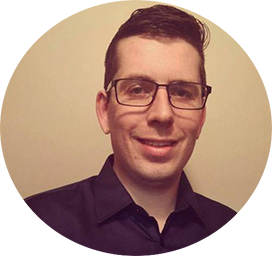
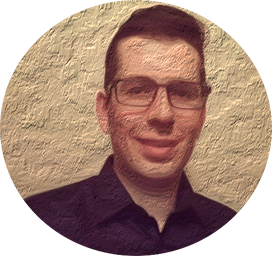
header update

diff --git a/index.html b/index.html
@@ -71,12 +71,12 @@
     <header>
         <div class="container" id="maincontent" tabindex="-1">
             <div class="row">
-                    <img class="img-responsive" src="img/ToneZone.png" alt="">
+                    <img class="img-responsive" src="img/me-profile.png" alt="">
                 <div class="col-lg-12">
                     <div class="intro-text">
                         <h1 class="name">Tony's Interests</h1>
                         <hr class="star-light">
-                        <span class="skills">Smart - Technology Guru - Explorer</span>
+                        <span class="skills">Developer - Tech Enthusiast - Learner</span>
                     </div>
                 </div>
             </div>
